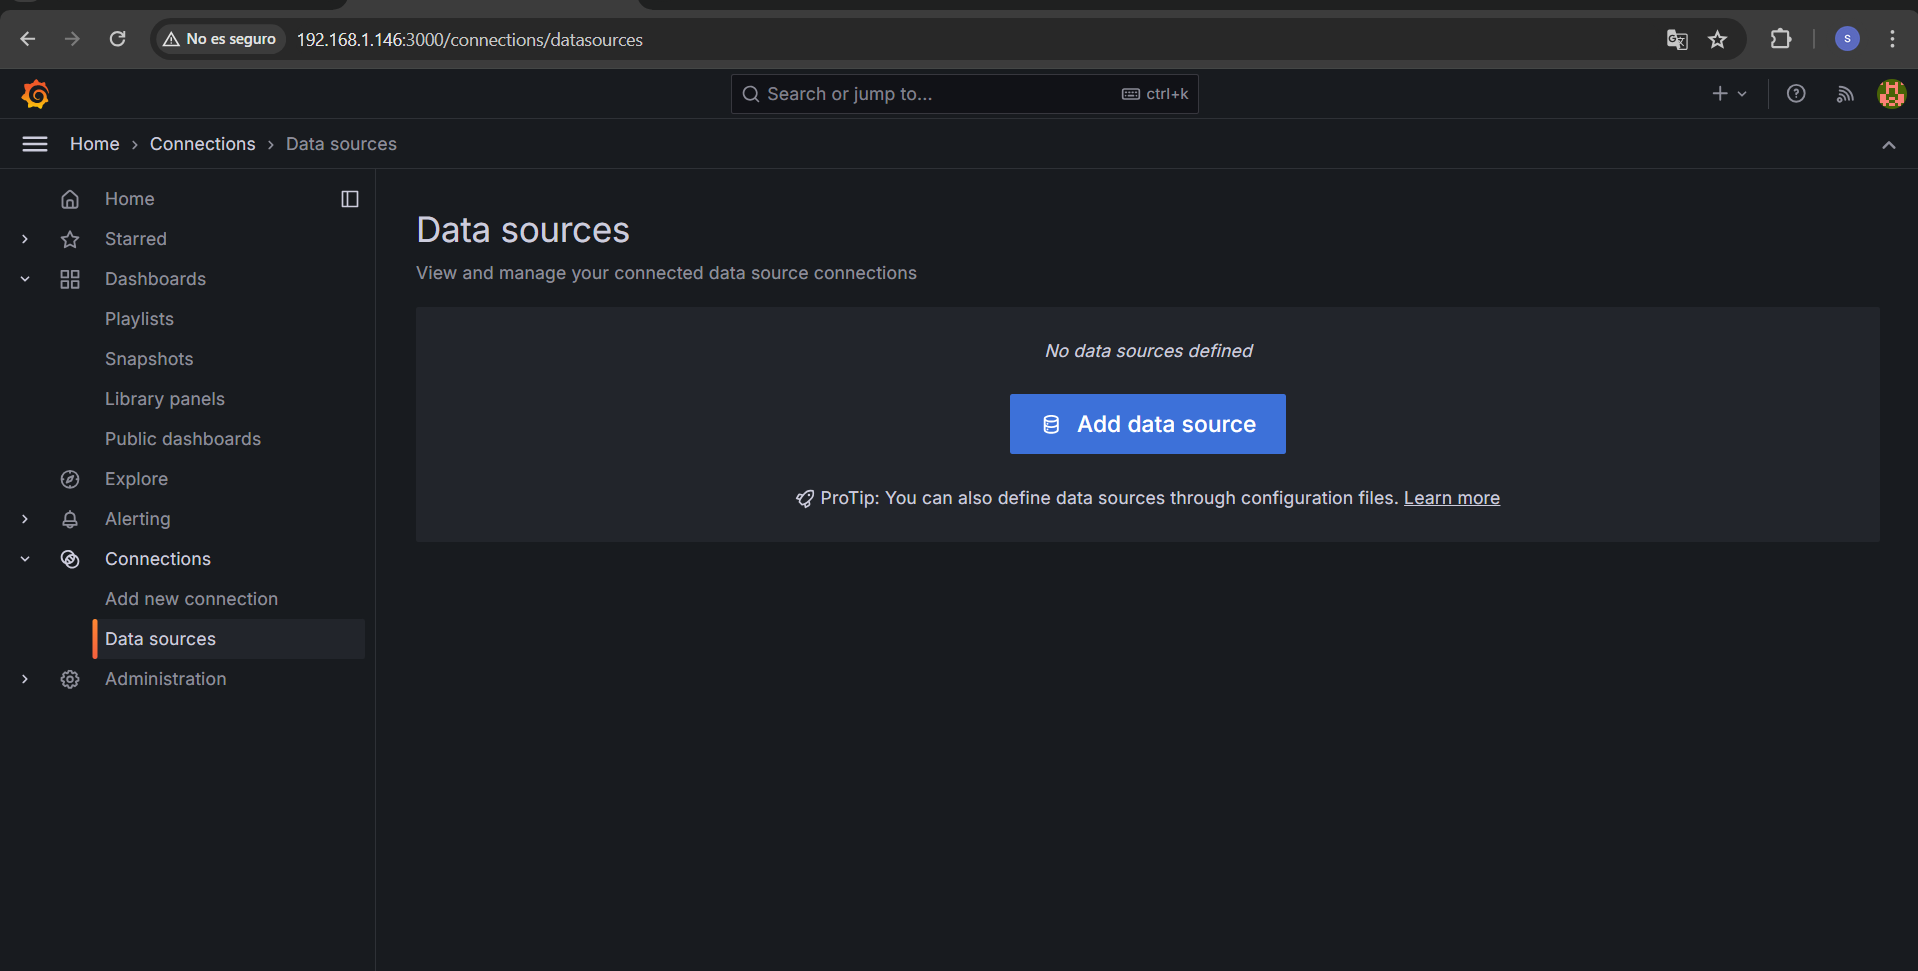
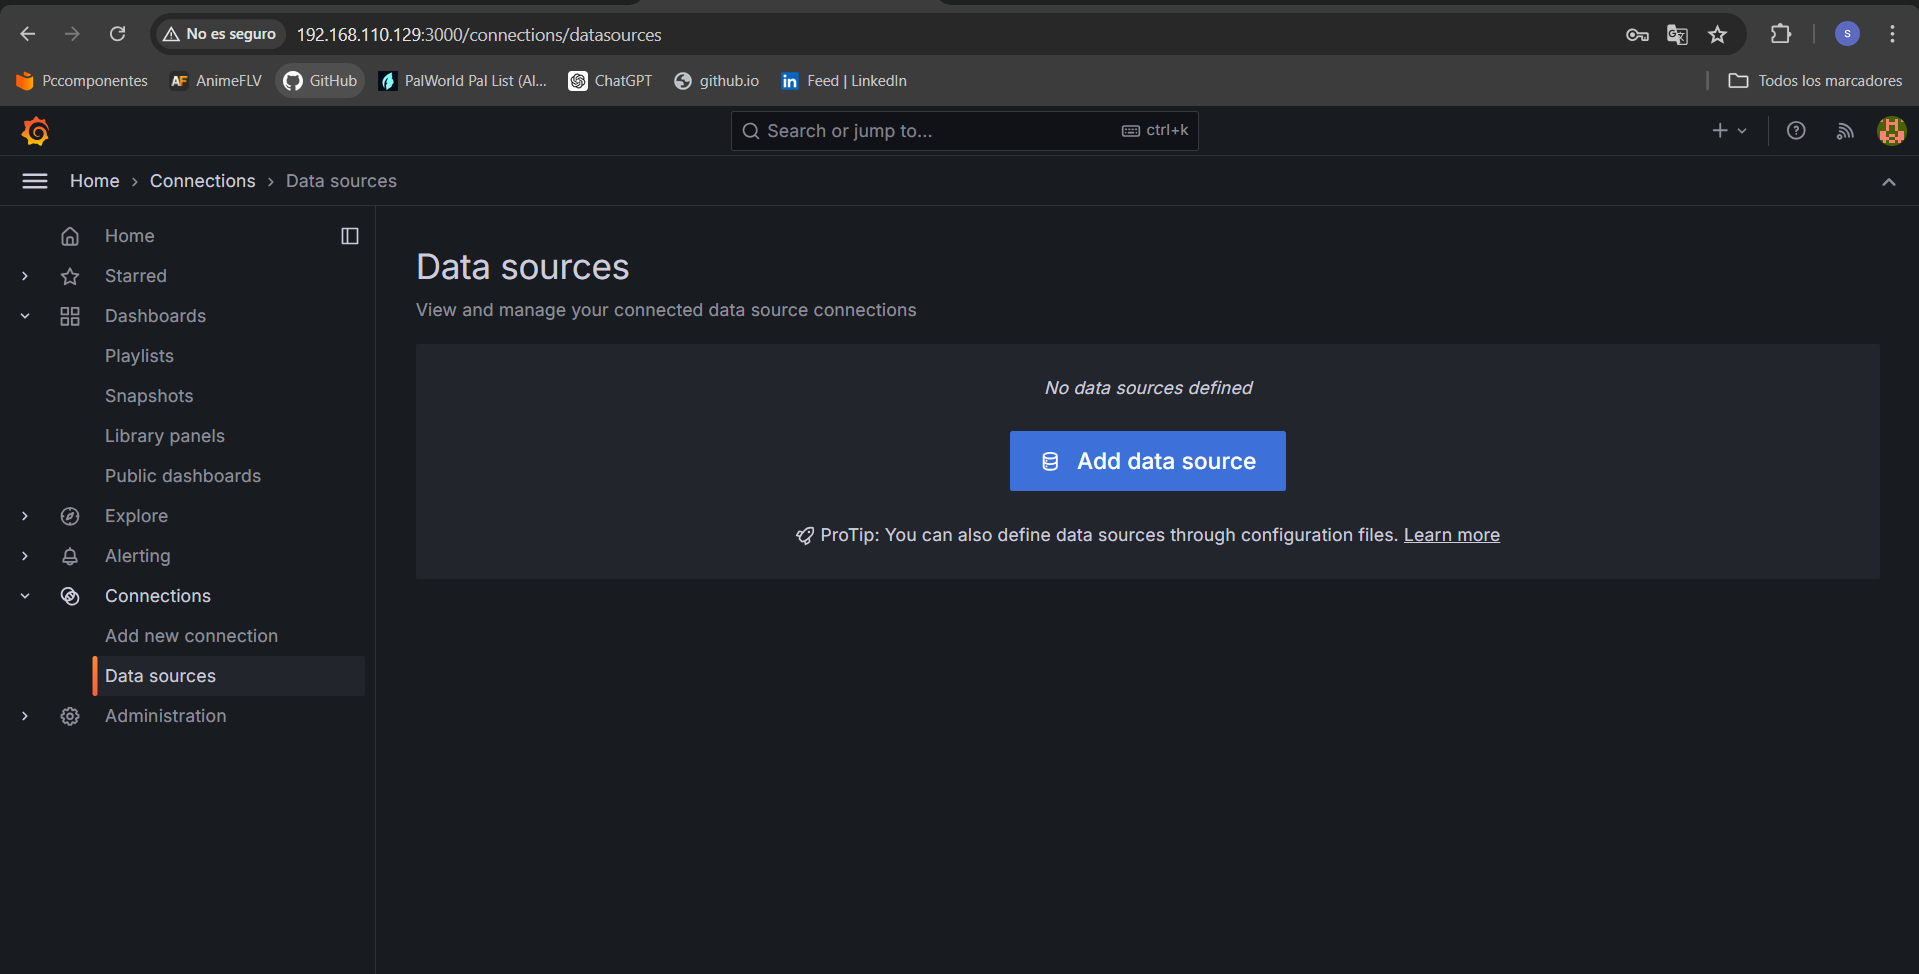
ampliacion de post y pequeña correccion

diff --git a/_posts/2024-04-11-Monitorización-de-servidores-con-grafana.md b/_posts/2024-04-11-Monitorización-de-servidores-con-grafana.md
@@ -56,7 +56,7 @@ Finalmente habilitamos grafana en el inicio de servidor para que inicie en el ar
 sudo systemctl enable grafana-server.service
 ~~~
 
-Con esto ya estaria completa la instalacion de grafana y ya podriamos acceder a la web de grafana para poder loguearnos, para ello hay que indicar en la barra de busqueda de cualquier navegador la ip de nuestra maquina (o su dominio), indicando el puerto 3000 que es el usado por grafana por defecto. en mi caso se accede con la direccion 192.168.1.146:3000
+Con esto ya estaria completa la instalacion de grafana y ya podriamos acceder a la web de grafana para poder loguearnos, para ello hay que indicar en la barra de busqueda de cualquier navegador la ip de nuestra maquina (o su dominio), indicando el puerto 3000 que es el usado por grafana por defecto. en mi caso se accede con la direccion 192.168.110.129:3000
 
 ![Grafana login](/images/Grafana/grafana_login.png)
 
@@ -108,6 +108,34 @@ En el menu de la izquierda vamos a la opcion "connections" y despues a la opcion
 
 Con grafana tenemos la opcion tanto de crear nuestro propio dashboard dependiendo de las necesidaddes de monitarizacion que tenga neustro sistema asi como tambien la opcion de importar dashboards creados por la comunidad en [Grafana dashboards](https://grafana.com/grafana/dashboards/)
 
-En este caso para importar los dashboards se puede indicar tanto la url del dashboard como la ID, en esta practica se ha usado el dashboard Node exporter siendo el mas descargado por lo que para su uso indicamos la ID de node-exportes (1860) y ya podremos empezar a usar el dashboard.
+En este caso para importar los dashboards en el menu de la izquierda buscamos la opcion de "dashboards", abrimos la opcion "create dashboard" y despues entre las tres opciones que nos ofrece grafana seleccionamos la opcion "import dashboard". Una vez ahi para importar el dashboard podemos indicar tanto la url del dashboard como la ID, 
+
+A modo de ejemplo se ha usado el dashboard Node exporter siendo el mas descargado por lo que para su uso indicamos la ID de node-exportes (1860) y ya podremos empezar a usar el dashboard.
 
 ![Dashboard](/images/Grafana/metrica.png)
+
+Si por el contrario en lugar de importar dashboards creados por la comunidad queremos crear nuestros propios dashboards personalizados dependiendo de las necesidades que tengamos a la hora de monitorizar tendriamos que realizar los siguientes pasos:
+
+Al igual que se ha hecho anteriormente, en el menu de la izquierda buscamos la opcion de "dashboards" y abrimos la opcion "create dashboard" pero esta vez en lugar de seleccionar la opcion "import dashboard", elegimos la opcion "+ add visualization".
+
+Al acceder a "add visualization" lo primero que nos pedira grafana sera que elijamos un data source que sera desde donde grafana obtenga los datos de las metricas. Al tratarse de una maquina recien creada en mi caso el unico data source que da la opcion de seleccionar sera el de prometheus pero segun las necesidades que tengamos podemos instalar cualquier otro para poder usarlo.
+
+![Prometheus](/images/Grafana/prometheus.png)
+
+Al crear un dashboard vacio, lo primero que haremos sera crear los paneles. Un panel es el bloque básico para la visualización de los datos. Grafana provee diferentes tipos de paneles y cada uno de ellos provee un editor de consulta (query) dependiendo del tipo de Data Source seleccionado.
+
+![Panel vacio](/images/Grafana/panel.png)
+
+Vamos a crear un panel de tipo grafico en el que por ejemplo consultaremos la tasa promedio de solicitudes HTTP en los últimos 5 minutos, para ello en la parte de abajo donde visualizamos los paneles encontraremos la opcion "query" donde podremos realizar diversas consultas de datos en el apartado "metrics". Como por ejemplo lo que queremos consultar es la tasa promedio de solicitudes http la metrica que necesitamos seia la de "prometheus_http_request_total".
+
+Tambien podemos agrgar un rango de tiempo para que los datos esten lo mas actualizados posibles, en este caso como rango de tiempo se ha puesto de 5 min, para ello bajo el apartado metrica nos aparecera una opcion llamada "hint: add rate" donde tendremos para elegir distintos rangos de actualizacion, desde 1 min a 24h.
+
+Cuando tengamos claro el tipo de consulta que haremos, en el apartado derecho seleccionaremos el tipo de grafica para mostrar los datos ademas de poder seleccionar diversas opciones para que esos datos se muestren lo mejor y mas claramente posible.
+
+### **Configuraciones de paneles** ###
+
+A la hora de configurar y editar nuestros paneles en el menu de la derecha contamos con varias opciones que nos pueden ser utiles para poder diferenciar los datos que mostrara dicho panel en el dashboard. La primera opcion que veremos sera la que nos permitira seleccionar la forma grafica en la que los datos se nos mostraran.
+
+* Panel options
+
+En este apartado podremos ponerle un nombre y descripcion (si fuese necesario) al panel que se haya creado. Ademas de indicar un nombre y descripcion tambien contaremos con una opcion que puede ser muy util que seria la opcion "panel links" lo que nos permitira compartir paneles entre distintos miembros de un equipo o distintos usuarios compartiendo la url que genere el panel.
